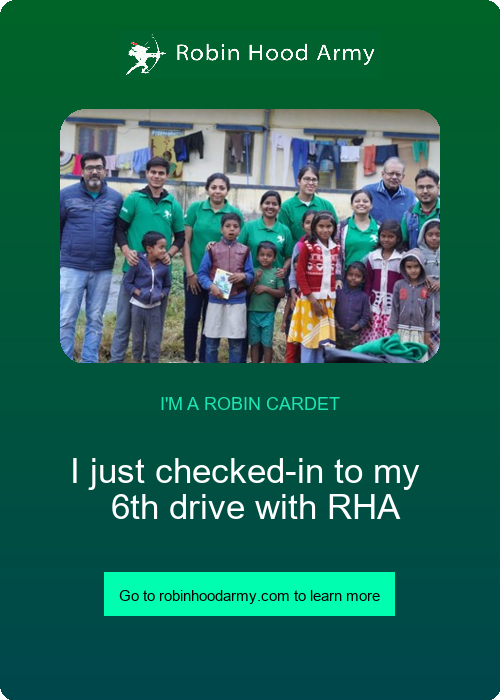
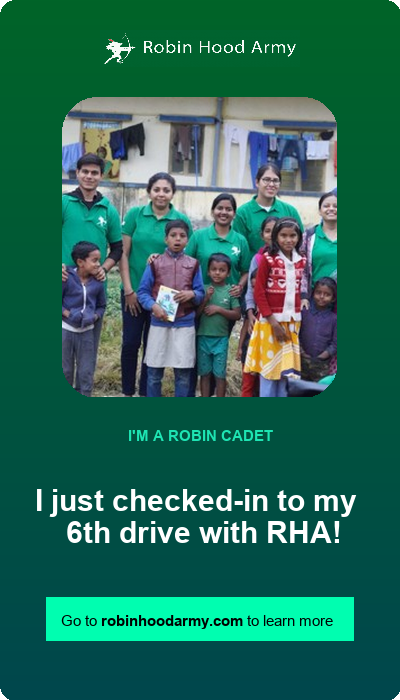
update image dimention, add cropping, text bold

diff --git a/app.py b/app.py
@@ -1,4 +1,4 @@
-from PIL import Image, ImageDraw, ImageFont
+from PIL import Image, ImageDraw, ImageFont, ImageOps
 import requests
 import io
 from image_edit_helper import put_border_radius, create_gradient_image
@@ -10,7 +10,7 @@ color2 = (0, 71, 77)
 padding = 80
 margin = 30
 border_radius = 15
-container_size = (500, 700)
+container_size = (400, 700)
 container_width, container_height = container_size
 used_height = 0
 
@@ -27,7 +27,7 @@ container = put_border_radius(container, border_radius)
 # Put the logo image
 rha_logo_img = Image.open("static/rha-logo.png")
 # resize the logo image
-new_size = tuple(dim - padding*3 for dim in container_size)
+new_size = tuple(dim - padding*2.5 for dim in container_size)
 # new_size = tuple(dim // 1.6 for dim in container_size)
 rha_logo_img.thumbnail(new_size)
 
@@ -44,14 +44,21 @@ used_height = y + logo_height
 # get a random image
 # image_response = requests.get('https://source.unsplash.com/random/300x200')
 # image = Image.open(io.BytesIO(image_response.content))
+image = Image.open("static/checkin-sample2.jpg")
+image = Image.open("static/checkin-sample3.jpg")
 image = Image.open("static/checkin-sample.jpg")
-# image = Image.open("static/checkin-sample2.jpg")
 
-# reduce image size
-new_size = tuple(dim - padding*1.5 for dim in container_size)
-# new_size = tuple(dim // 1.25 for dim in container_size)
-image.thumbnail(new_size)
-border_radius = 25
+# Crop the image
+# Define crop dimensions
+crop_width, crop_height = 275, 300
+cropped_img = ImageOps.fit(image, (crop_width, crop_height), Image.ANTIALIAS)
+## Add a white frame to the cropped image
+# Define frame size
+# frame_size = 10
+# framed_img = ImageOps.expand(image, border=frame_size, fill="white")
+# image = framed_img
+image = cropped_img
+border_radius = 35
 image = put_border_radius(image, border_radius)
 
 # paste image in container at the center
@@ -65,8 +72,8 @@ used_height = y + image_height
 
 # Add text to the container using the ImageDraw module
 draw = ImageDraw.Draw(container)
-text = "I'M A ROBIN CARDET"
-font = ImageFont.truetype("arial.ttf", 18)
+text = "I'M A ROBIN CADET"
+font = ImageFont.truetype("arialbd.ttf", 15)
 # get text box size
 text_box = draw.textbbox((0, 0), text, font=font)
 text_width, text_height = (
@@ -78,8 +85,8 @@ used_height = y + text_height
 
 
 draw = ImageDraw.Draw(container)
-text = """I just checked-in to my \n 6th drive with RHA"""
-font = ImageFont.truetype("arial.ttf", 35)
+text = """I just checked-in to my \n 6th drive with RHA!"""
+font = ImageFont.truetype("arialbd.ttf", 30)
 # get text box size
 text_box = draw.textbbox((0, 0), text, font=font)
 text_width, text_height = (
@@ -92,11 +99,35 @@ used_height = y + text_height
 # ~~~~~~ website box ~~~~~~
 
 
+# # Create a draw object for the image
+# text = "Go to robinhoodarmy.com to learn more"
+# font = ImageFont.truetype("arial.ttf", 15)
+# # get text box size
+# text_box = draw.textbbox((0, 0), text, font=font)
+# text_width, text_height = (
+#     text_box[2] - text_box[0]), (text_box[3] - text_box[1])
+
+
+# # paste image in container at the center
+# url_container = Image.new('RGB', (text_width+margin, text_height+margin), color=(0, 254, 176))
+# draw = ImageDraw.Draw(url_container)
+
+# draw.text((margin//2, margin//2), text, font=font, fill=(0, 0, 0), align='center')
+
+# url_container_width, url_container_height = url_container.size
+# x = (container_width - url_container_width) // 2
+# y = int(used_height + margin*2)
+# container.paste(url_container, (x, y))
+# used_height = y + url_container_height
 # Create a draw object for the image
-text = "Go to robinhoodarmy.com to learn more"
+text = "Go to "
+bold_text = "robinhoodarmy.com"
+remainig_text = "to learn more"
 font = ImageFont.truetype("arial.ttf", 15)
+bold_font = ImageFont.truetype("arialbd.ttf", 15)
+remainig_text_font = ImageFont.truetype("arial.ttf", 15)
 # get text box size
-text_box = draw.textbbox((0, 0), text, font=font)
+text_box = draw.textbbox((0, 0), text + bold_text + remainig_text, font=bold_font)
 text_width, text_height = (
     text_box[2] - text_box[0]), (text_box[3] - text_box[1])
 
@@ -106,12 +137,15 @@ url_container = Image.new('RGB', (text_width+margin, text_height+margin), color=
 draw = ImageDraw.Draw(url_container)
 
 draw.text((margin//2, margin//2), text, font=font, fill=(0, 0, 0), align='center')
+draw.text((margin//2 + draw.textsize(text, font=font)[0], margin//2), bold_text, font=bold_font, fill=(0, 0, 0), align='center')
+draw.text((margin//2 + + margin//2 + draw.textsize(text, font=font)[0] +draw.textsize(bold_text, font=font)[0], margin//2), remainig_text, font=font, fill=(0, 0, 0), align='center')
 
 url_container_width, url_container_height = url_container.size
 x = (container_width - url_container_width) // 2
 y = int(used_height + margin*2)
 container.paste(url_container, (x, y))
 used_height = y + url_container_height
+
 
 # save the image
 container.save('decorated_image.png')

diff --git a/README.md b/README.md
@@ -18,6 +18,9 @@ By default, the script fetches a random image from Unsplash and adds a border an
 - `font`: The font and size of the text.
 
 After running the script, the generated image will be saved in the same directory with the filename `decorated_image.png`.
---- 
-### decorated_image
+
+----
+## Expected image
+![Expected image](static/expected_desing.png)
+## decorated_image
 ![Decorated image](decorated_image.png)
